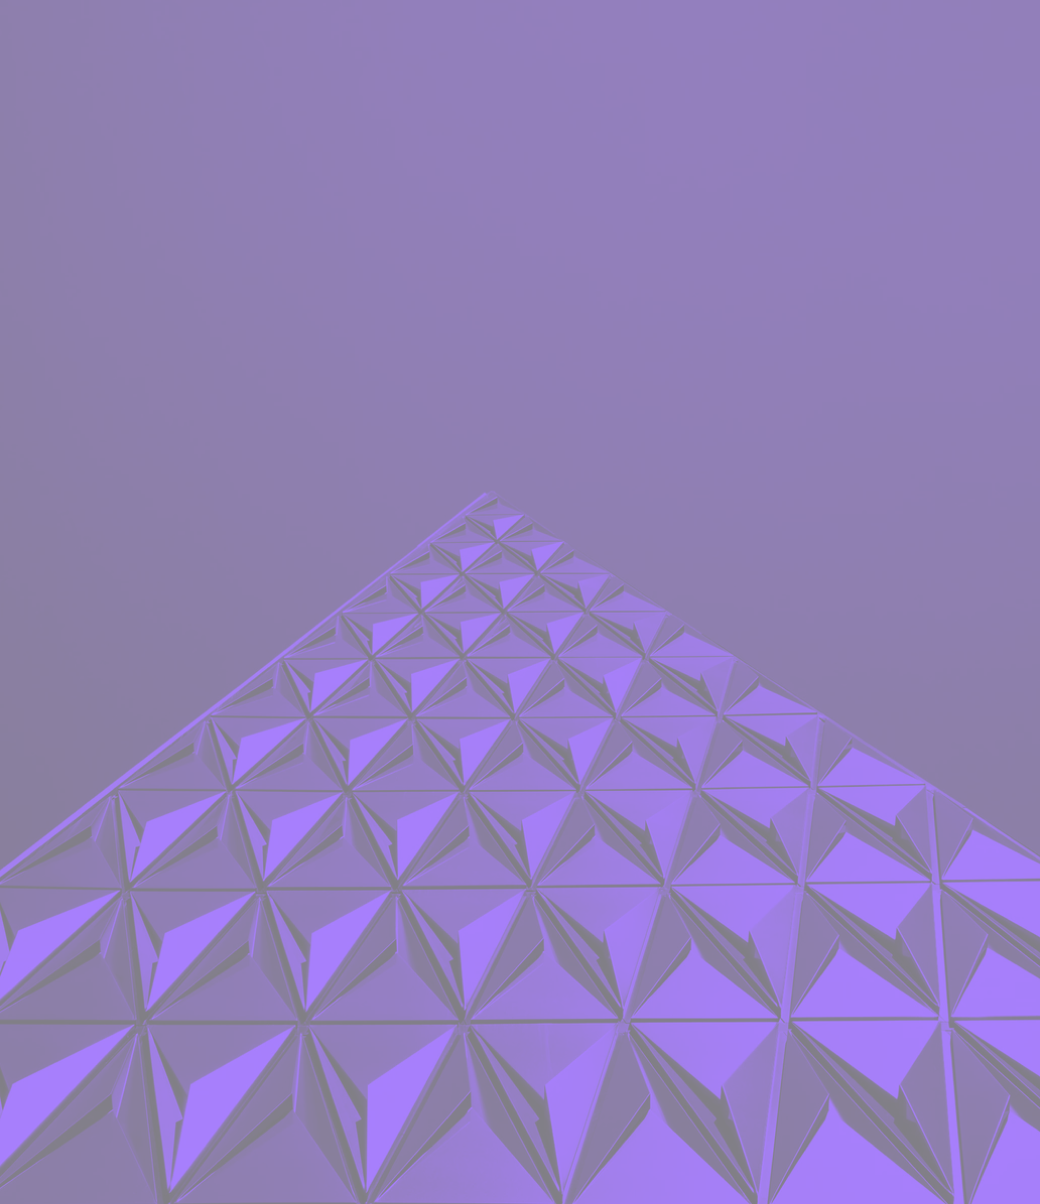
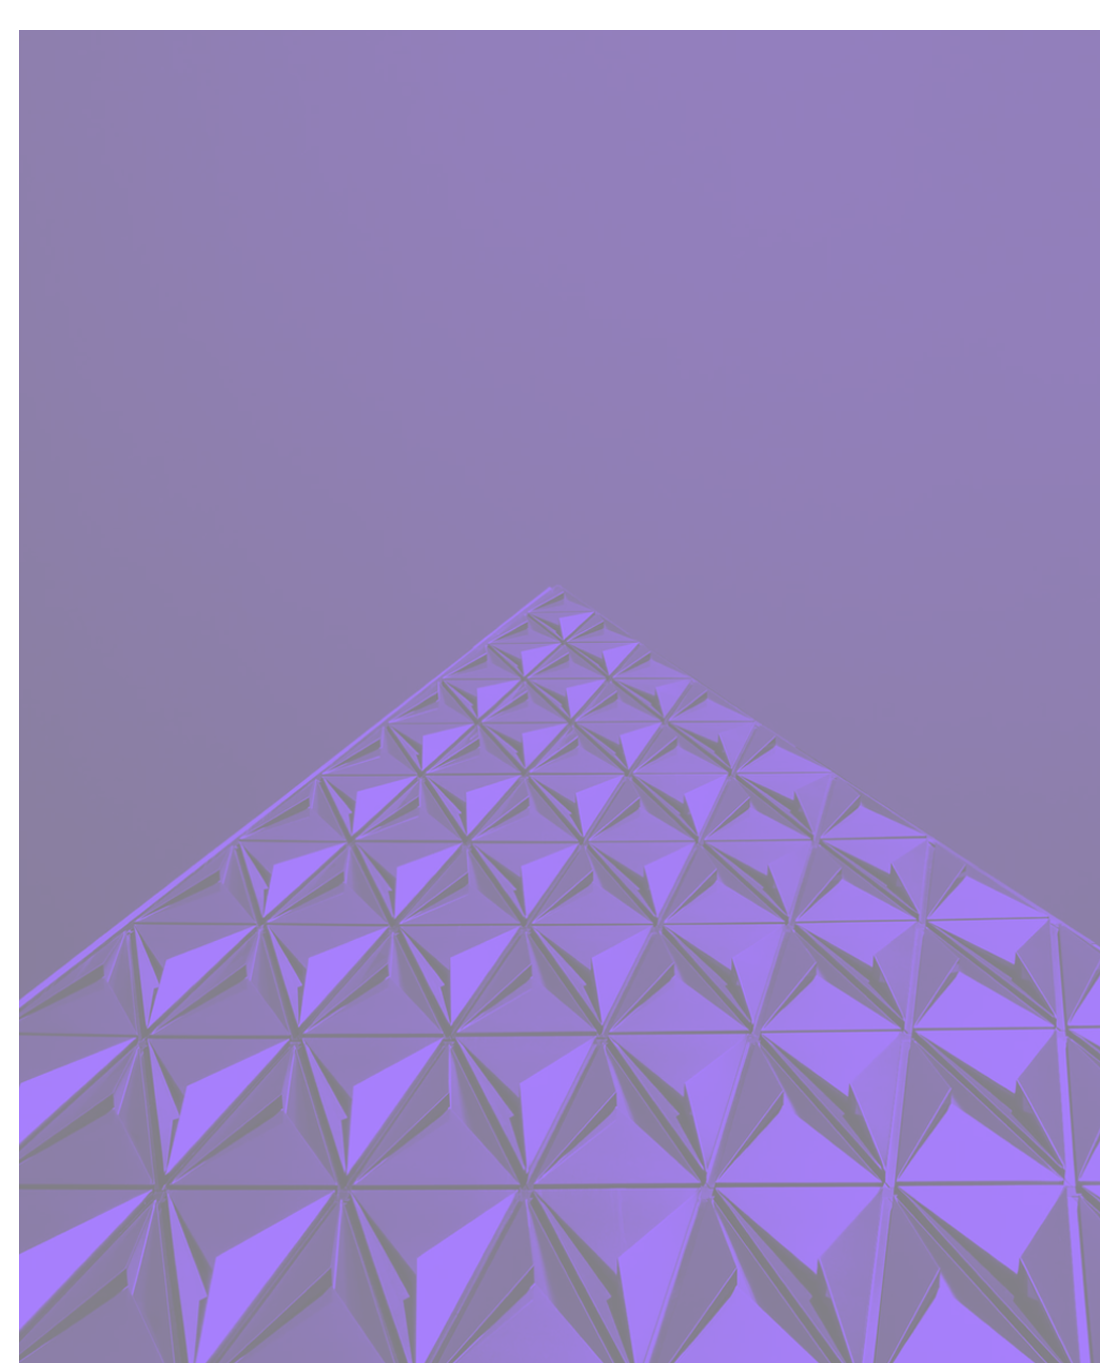
About section image alignment and the landing section margin removed

Changed region(s): [[0.0, 0.0, 1.0, 1.0]]

diff --git a/src/index.html b/src/index.html
@@ -141,10 +141,10 @@
         <div class="row justify-content-center">
             <div class="col-10">
                 <div class="row no-gutters about-wrapper">
-                    <div class="col-2">&nbsp;</div>
-                    <div class="col-12 col-md-10">
+                    <div class="col-3">&nbsp;</div>
+                    <div class="col-12 col-md-9">
                         <div class="row justify-content-end no-gutters">
-                            <div class="col-11 col-md-7">
+                            <div class="col-11 col-md-8">
                                 <div class="about-block mt50">
                                     <p class="content">
                                         There are many critical projects and tools for the ethereum ecosystem that need to be built.
@@ -153,7 +153,7 @@
                             </div>
                         </div>
                         <div class="row justify-content-end no-gutters bt bb">
-                            <div class="col-11 col-md-7">
+                            <div class="col-11 col-md-8">
                                 <div class="about-block">
                                     <p class="content">
                                         <strong>PHASE 1 - Research project.</strong><br/> We’re interviewing 100+ dapp developers to identify the ecosystem’s biggest challenges
@@ -162,7 +162,7 @@
                             </div>
                         </div>
                         <div class="row justify-content-end no-gutters">
-                            <div class="col-11 col-md-7">
+                            <div class="col-11 col-md-8">
                                 <div class="about-block">
                                     <p class="content">
                                         <strong>PHASE 2 - Actively managed bounties.</strong><br/> We source significant funding for bounties to address those challenges. Every bounty has advisers, recruiters, project managers, and developers.

diff --git a/src/scss/style.scss b/src/scss/style.scss
@@ -183,10 +183,9 @@ header{
   position: fixed;
   top: 0;
   left: 0;
-  width: 96vw;
-  height: 92vh;
+  width: 100vw;
+  height: 100vh;
   z-index: -1;
-  margin: 4vh 2vw;
   background-color: #0C143A;
 
   -webkit-transition: all 0.3s ease;
@@ -225,7 +224,7 @@ header{
   background-image: url("../img/about-side.png");
   background-repeat: no-repeat;
   background-position: top left;
-  background-size: 51.5% auto;
+  background-size: 50% auto;
 }
 
 .block-content h3{
@@ -378,8 +377,7 @@ header{
   }
 
   .screen{
-    height: 98vh;
-    margin: 1vh 2vw;
+    height: 100vh;
   }
 
   .about-block{
